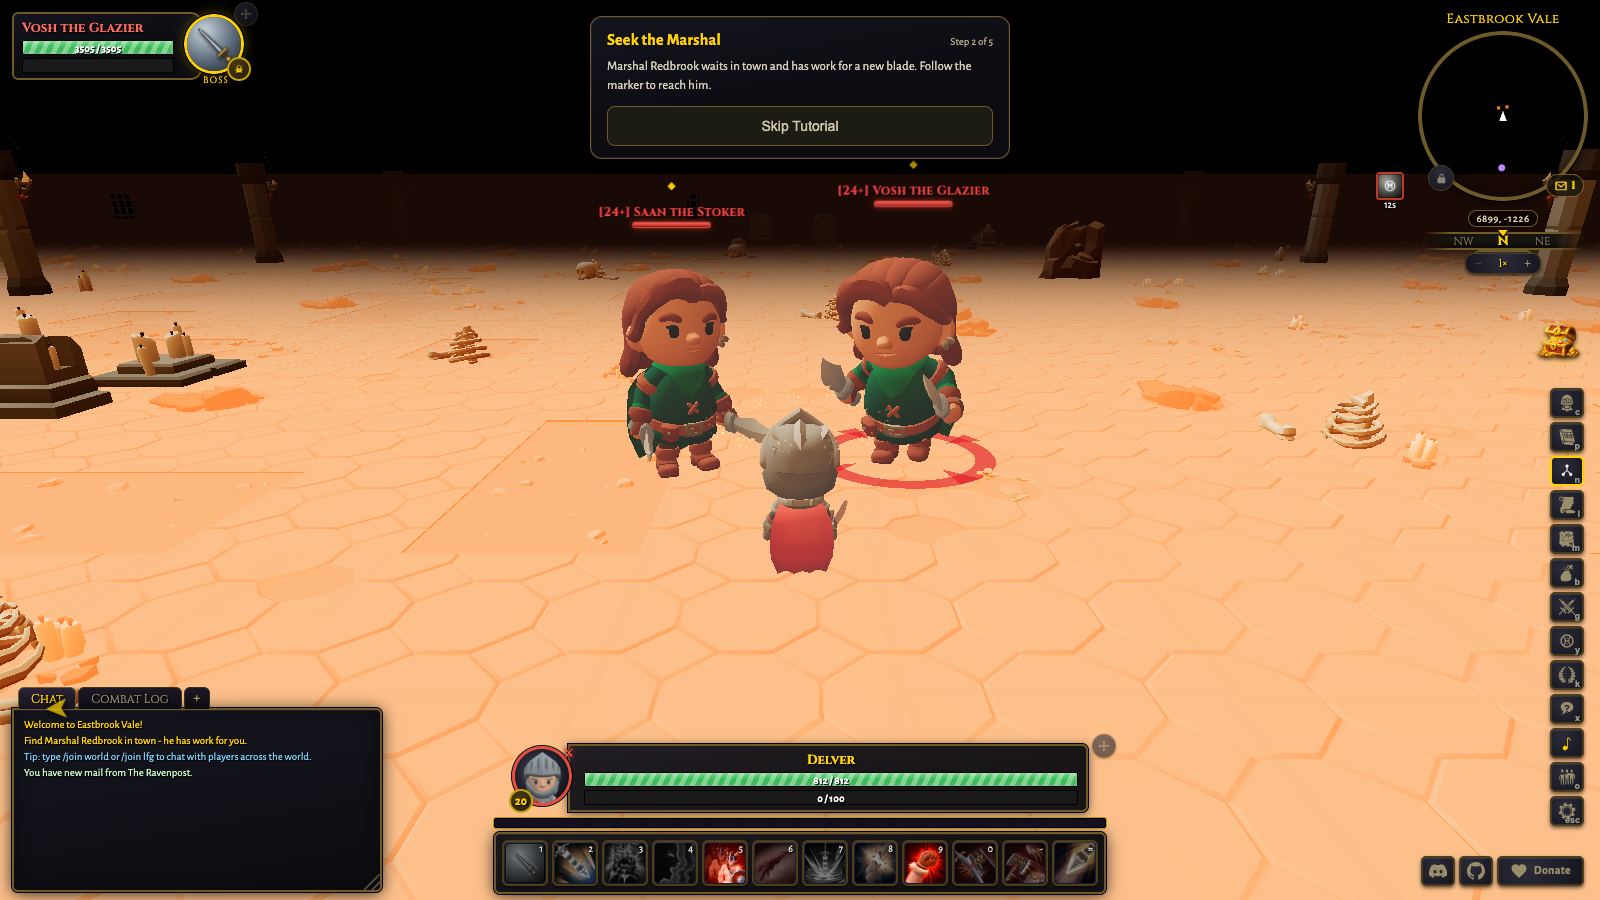
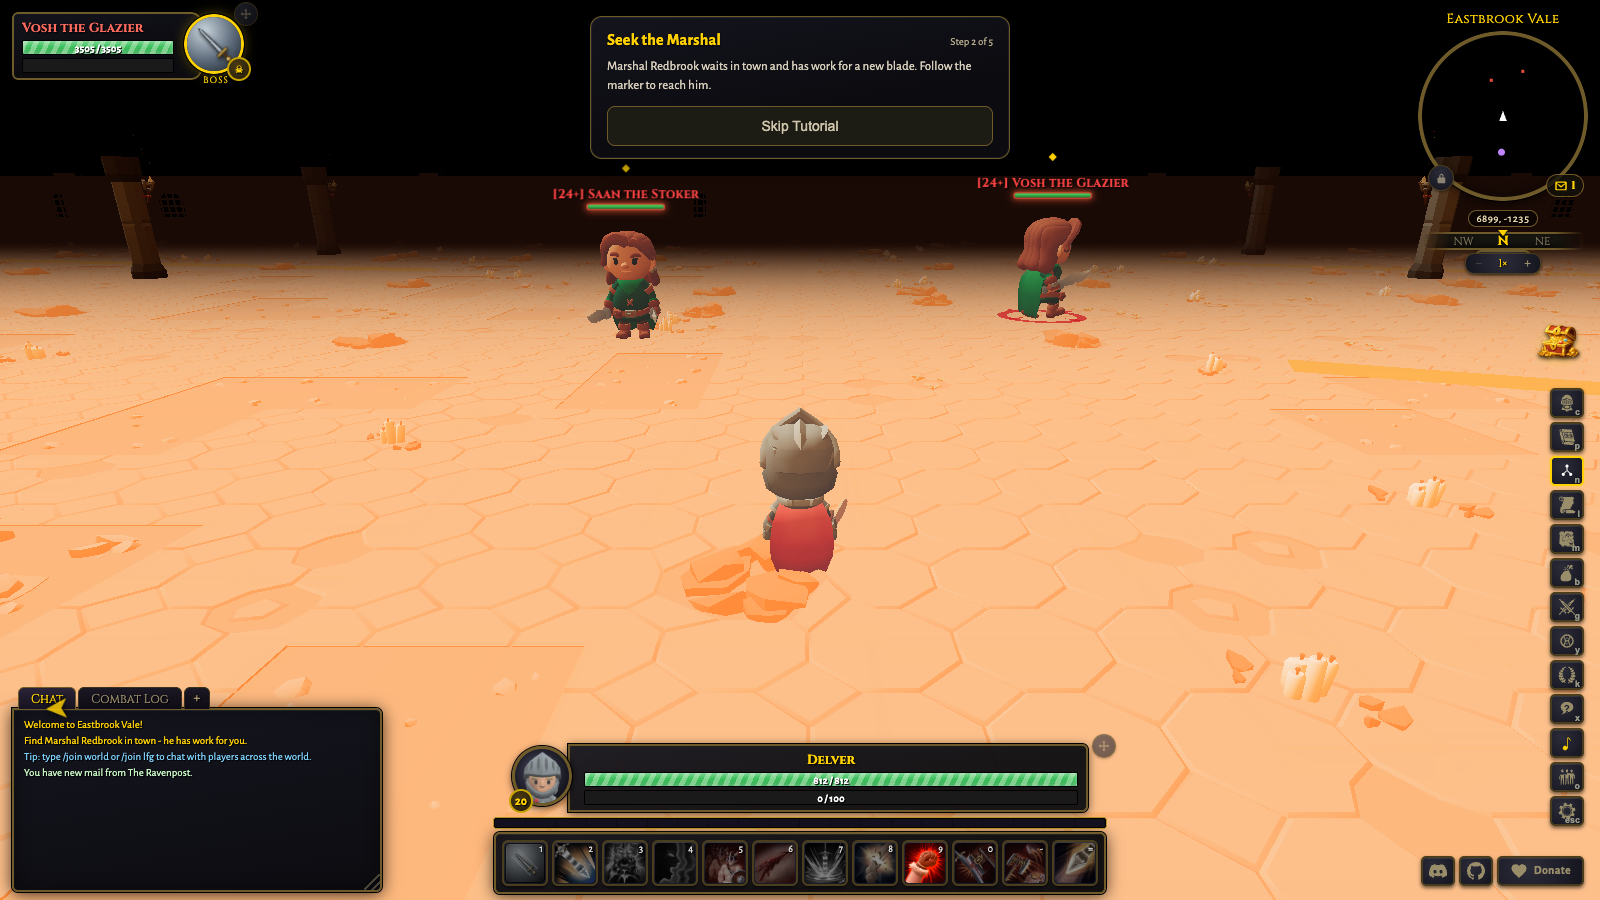
feat(render): strip tomb props + molten lava floor for the Undermount wings
The wings reused the crypt kit, so they were furnished with coffins, gravestones,
and bones and read as a warm tomb, not a forge. For the undermount variant only,
skip placeTombs and add procedural emissive lava (glowing cracks + pools) to the
floor, so the chamber reads as a hot magma forge. No new assets (there are no
forge/kiln GLBs); this is the best look achievable on the reused geometry, real
forge props would need new 3D art. Also fixes the screenshot script to poll boot
Node-side (software-GL starves the page rAF, breaking page.waitForFunction).

diff --git a/src/render/dungeon.ts b/src/render/dungeon.ts
@@ -54,6 +54,62 @@ const DUNGEON_LIGHT_INTENSITY = 46;
 const DUNGEON_LIGHT_DISTANCE = 34;
 const UNDERMOUNT_FLOOR_EMISSIVE = 0xff5a1e;
 const UNDERMOUNT_FLOOR_EMISSIVE_INTENSITY = 1.2;
+const UNDERMOUNT_LAVA_BASE = 0x260603;
+const UNDERMOUNT_LAVA_EMISSIVE = 0xff5a10;
+const UNDERMOUNT_LAVA_EMISSIVE_INTENSITY = 2.2;
+
+// Fixed normalized paths keep every Undermount wing deterministic while
+// scaling the magma network to the unusually wide authored room bounds.
+const UNDERMOUNT_LAVA_PATHS = [
+  [
+    [-0.9, 0.16],
+    [-0.73, 0.23],
+    [-0.57, 0.19],
+    [-0.4, 0.29],
+    [-0.22, 0.24],
+    [-0.08, 0.34],
+  ],
+  [
+    [0.08, 0.12],
+    [0.24, 0.2],
+    [0.39, 0.16],
+    [0.55, 0.27],
+    [0.72, 0.21],
+    [0.9, 0.31],
+  ],
+  [
+    [-0.84, 0.55],
+    [-0.67, 0.49],
+    [-0.49, 0.58],
+    [-0.31, 0.52],
+    [-0.14, 0.63],
+  ],
+  [
+    [0.12, 0.58],
+    [0.3, 0.64],
+    [0.46, 0.57],
+    [0.62, 0.68],
+    [0.8, 0.61],
+    [0.9, 0.72],
+  ],
+  [
+    [-0.45, 0.58],
+    [-0.48, 0.7],
+    [-0.38, 0.81],
+    [-0.48, 0.9],
+  ],
+  [
+    [0.55, 0.27],
+    [0.61, 0.4],
+    [0.54, 0.5],
+    [0.64, 0.57],
+  ],
+] as const;
+
+const UNDERMOUNT_LAVA_POOLS = [
+  { x: -0.62, z: 0.36, scaleX: 1.25, scaleZ: 0.75, rotation: 0.24 },
+  { x: 0.6, z: 0.78, scaleX: 1.0, scaleZ: 0.9, rotation: -0.31 },
+] as const;
 
 const MODULE_SCALE = 2; // KayKit walls are 4u tall/long -> 8u at our room scale
 const FLOOR_CELL = 4; // kit floor tiles are 4x4 at MODULE_SCALE 1
@@ -584,6 +640,9 @@ export class DungeonInteriors {
   private glowDecalTex: THREE.Texture | null = null;
   private glowDecalMats = new Map<number, THREE.MeshBasicMaterial>();
   private flameGeo: THREE.BufferGeometry | null = null;
+  private undermountLavaVeinGeo: THREE.BufferGeometry | null = null;
+  private undermountLavaPoolGeo: THREE.BufferGeometry | null = null;
+  private undermountLavaMat: THREE.Material | null = null;
   private packMats = new Map<Pack, THREE.Material>();
   private undermountFloorMats = new Map<Pack, THREE.Material>();
   // delve_marsh / delve_marsh_apse wall+pillar and floor tints: clones of
@@ -641,6 +700,11 @@ export class DungeonInteriors {
     );
     water.frustumCulled = false;
     group.add(water);
+    // Undermount lava uses one shared emissive program for veins and pools.
+    this.undermountLavaVeinGeo ??= new THREE.BoxGeometry(1, 0.06, 1);
+    const lava = new THREE.Mesh(this.undermountLavaVeinGeo, this.undermountLavaMaterial());
+    lava.frustumCulled = false;
+    group.add(lava);
     // Torch-glow decal: one MeshBasic program shared by every variant's colour.
     this.addTorchGlow(group, 0, 0, TORCH_COLORS.crypt.light);
     return group;
@@ -696,11 +760,15 @@ export class DungeonInteriors {
     this.placeFloor(p, layout, variant);
     this.placeWalls(p, layout, variant, arenaWalls);
     this.placePillarsAndTorches(group, p, layout, variant);
-    this.placeTombs(p, layout, variant);
+    if (variant !== 'undermount') this.placeTombs(p, layout, variant);
     this.placeStubs(p, layout.stubs, variant);
     this.placeDais(group, p, layout, variant);
-    this.placeAisleClutter(p, layout, variant);
-    this.placeWallDressing(p, layout, variant, arenaWalls);
+    if (variant === 'undermount') {
+      this.placeUndermountLava(group, layout);
+    } else {
+      this.placeAisleClutter(p, layout, variant);
+      this.placeWallDressing(p, layout, variant, arenaWalls);
+    }
     if (variant === 'temple') {
       this.placeFloodwater(group, layout);
       this.placeAquaticDressing(group, layout);
@@ -741,6 +809,83 @@ export class DungeonInteriors {
         m.mat.depthWrite = hide ? false : m.depthWrite;
       }
     }
+  }
+
+  private placeUndermountLava(group: THREE.Group, layout: DungeonLayout): void {
+    const halfX = layout.floorHalfX ?? (layout.wallX ?? DUNGEON_WALL_X) - 1;
+    const zSpan = Math.max(1, layout.zMax - layout.zMin);
+    const transform = new THREE.Object3D();
+    const segmentCount = UNDERMOUNT_LAVA_PATHS.reduce((count, path) => count + path.length - 1, 0);
+
+    this.undermountLavaVeinGeo ??= new THREE.BoxGeometry(1, 0.06, 1);
+    const veins = new THREE.InstancedMesh(
+      this.undermountLavaVeinGeo,
+      this.undermountLavaMaterial(),
+      segmentCount,
+    );
+    let segmentIndex = 0;
+    for (let pathIndex = 0; pathIndex < UNDERMOUNT_LAVA_PATHS.length; pathIndex++) {
+      const path = UNDERMOUNT_LAVA_PATHS[pathIndex];
+      for (let pointIndex = 1; pointIndex < path.length; pointIndex++) {
+        const start = path[pointIndex - 1];
+        const end = path[pointIndex];
+        const ax = start[0] * halfX;
+        const az = layout.zMin + start[1] * zSpan;
+        const bx = end[0] * halfX;
+        const bz = layout.zMin + end[1] * zSpan;
+        const dx = bx - ax;
+        const dz = bz - az;
+        const length = Math.hypot(dx, dz);
+        const width = 1.2 + ((pathIndex + pointIndex) % 3) * 0.35;
+
+        transform.position.set((ax + bx) / 2, 0.065, (az + bz) / 2);
+        transform.rotation.set(0, Math.atan2(-dz, dx), 0);
+        transform.scale.set(length + width * 0.4, 1, width);
+        transform.updateMatrix();
+        veins.setMatrixAt(segmentIndex++, transform.matrix);
+      }
+    }
+    veins.name = 'undermount-lava-veins';
+    veins.instanceMatrix.needsUpdate = true;
+    veins.computeBoundingSphere();
+    veins.renderOrder = 1;
+    group.add(veins);
+
+    this.undermountLavaPoolGeo ??= new THREE.CircleGeometry(1, 32).rotateX(-Math.PI / 2);
+    const pools = new THREE.InstancedMesh(
+      this.undermountLavaPoolGeo,
+      this.undermountLavaMaterial(),
+      UNDERMOUNT_LAVA_POOLS.length,
+    );
+    const poolRadius = Math.max(6, Math.min(11, halfX * 0.05));
+    for (let i = 0; i < UNDERMOUNT_LAVA_POOLS.length; i++) {
+      const spec = UNDERMOUNT_LAVA_POOLS[i];
+      const x = spec.x * halfX;
+      const z = layout.zMin + spec.z * zSpan;
+      transform.position.set(x, 0.08, z);
+      transform.rotation.set(0, spec.rotation, 0);
+      transform.scale.set(poolRadius * spec.scaleX, 1, poolRadius * spec.scaleZ);
+      transform.updateMatrix();
+      pools.setMatrixAt(i, transform.matrix);
+
+      this.addTorchGlow(group, x, z, UNDERMOUNT_LAVA_EMISSIVE, 0.11, poolRadius / 5.5);
+      const baseIntensity = this.lowGfx ? 9 : 18;
+      const light = new THREE.PointLight(
+        UNDERMOUNT_LAVA_EMISSIVE,
+        baseIntensity,
+        this.lowGfx ? 30 : 48,
+        2,
+      );
+      light.userData.baseIntensity = baseIntensity;
+      light.position.set(x, 2.8, z);
+      group.add(light);
+      this.fireLights.push(light);
+    }
+    pools.name = 'undermount-lava-pools';
+    pools.instanceMatrix.needsUpdate = true;
+    pools.computeBoundingSphere();
+    pools.renderOrder = 1;
+    group.add(pools);
   }
 
   // -------------------------------------------------------------------------
@@ -968,6 +1113,19 @@ export class DungeonInteriors {
     });
     this.undermountFloorMats.set(pack, mat);
     return mat;
+  }
+
+  private undermountLavaMaterial(): THREE.Material {
+    if (this.undermountLavaMat) return this.undermountLavaMat;
+    this.undermountLavaMat = surfaceMat({
+      color: UNDERMOUNT_LAVA_BASE,
+      roughness: 0.55,
+      metalness: 0,
+      emissive: UNDERMOUNT_LAVA_EMISSIVE,
+      emissiveIntensity: UNDERMOUNT_LAVA_EMISSIVE_INTENSITY,
+      side: THREE.DoubleSide,
+    });
+    return this.undermountLavaMat;
   }
 
   private emit(group: THREE.Group, p: Placements, variant: Variant): void {
